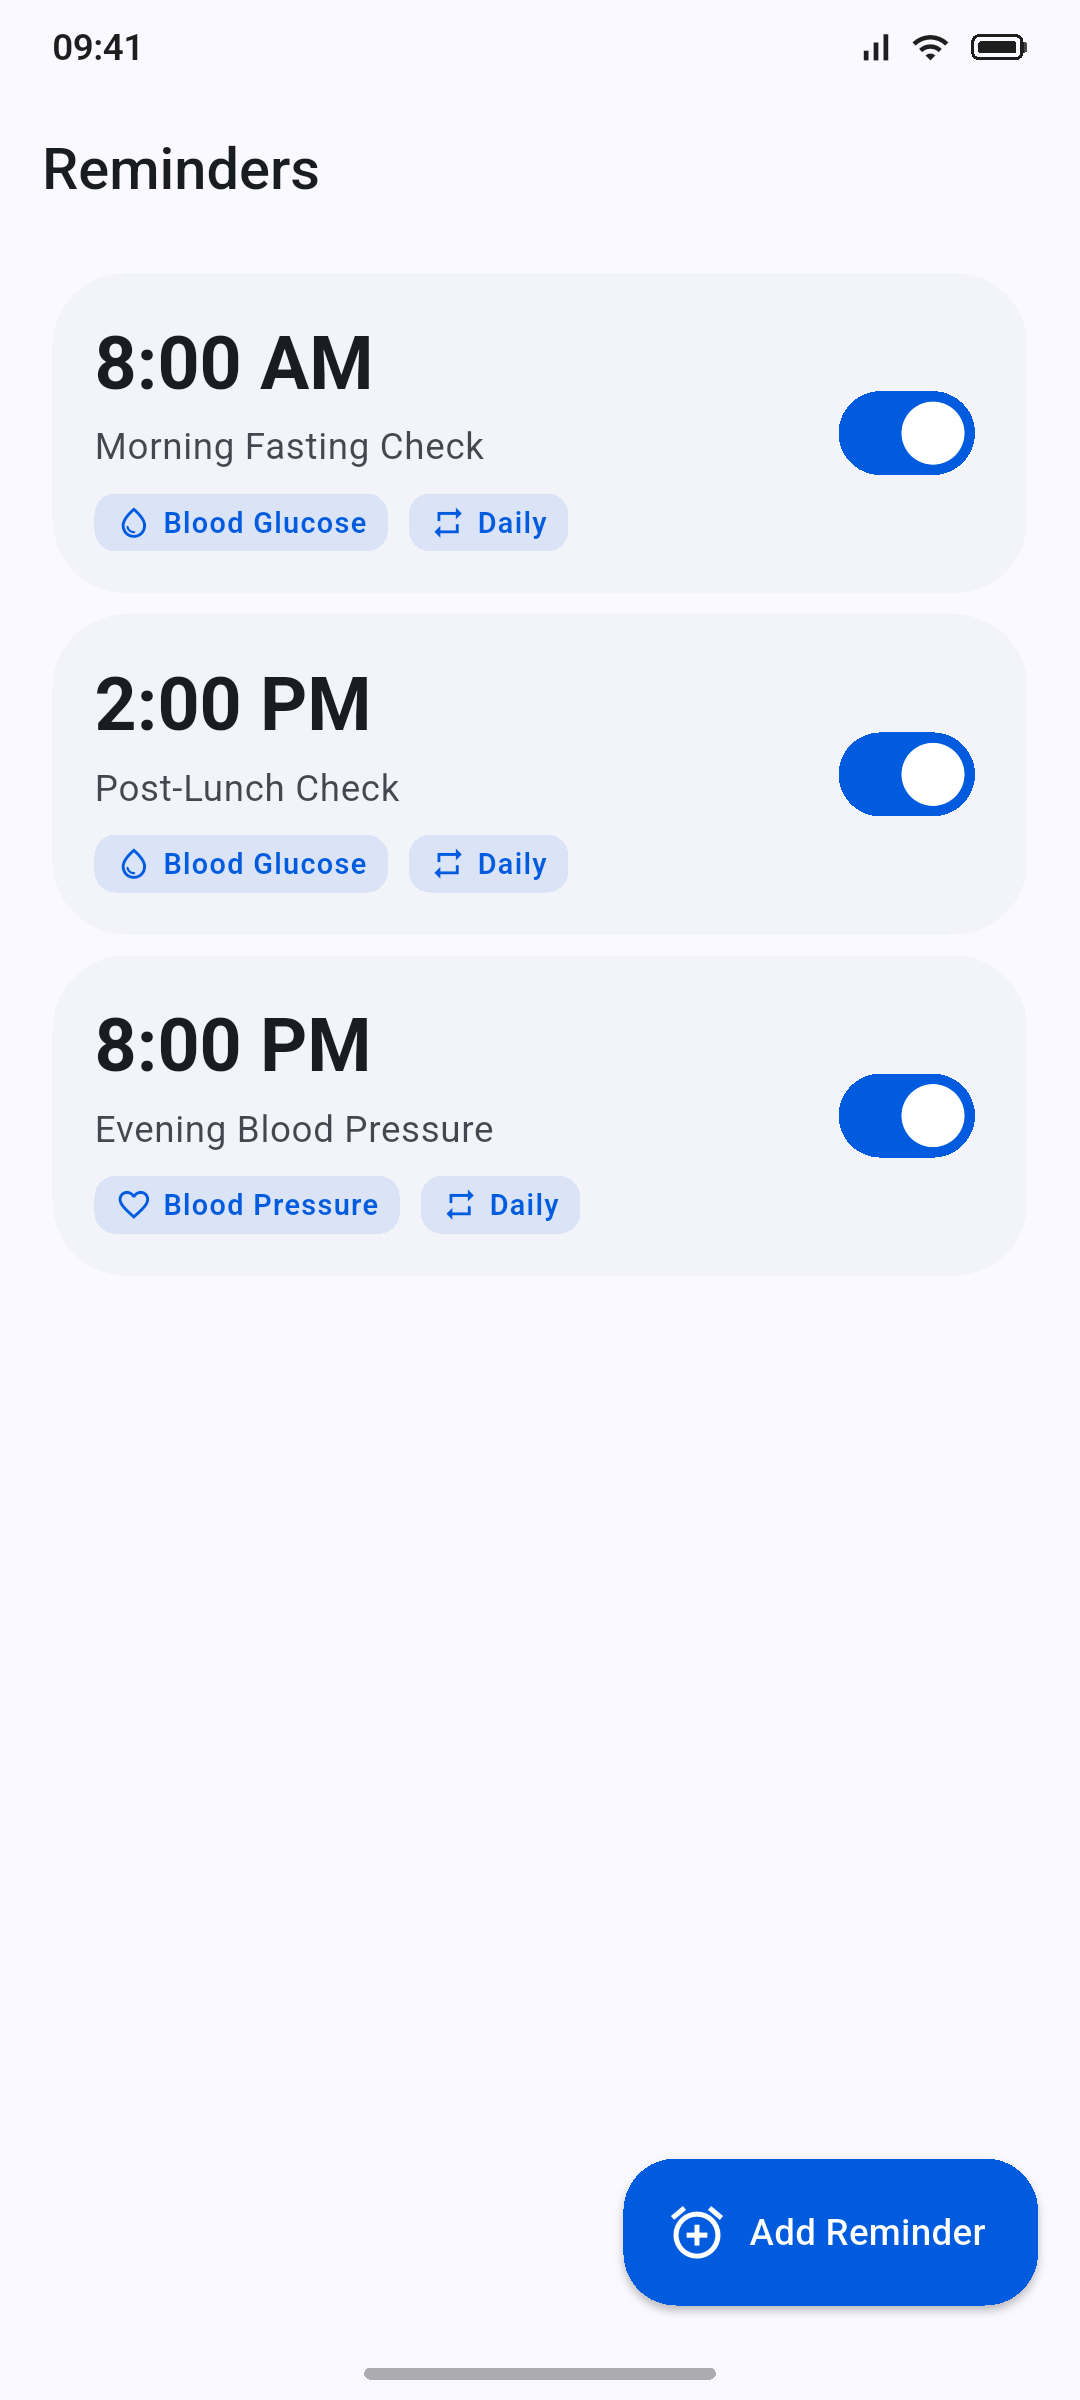
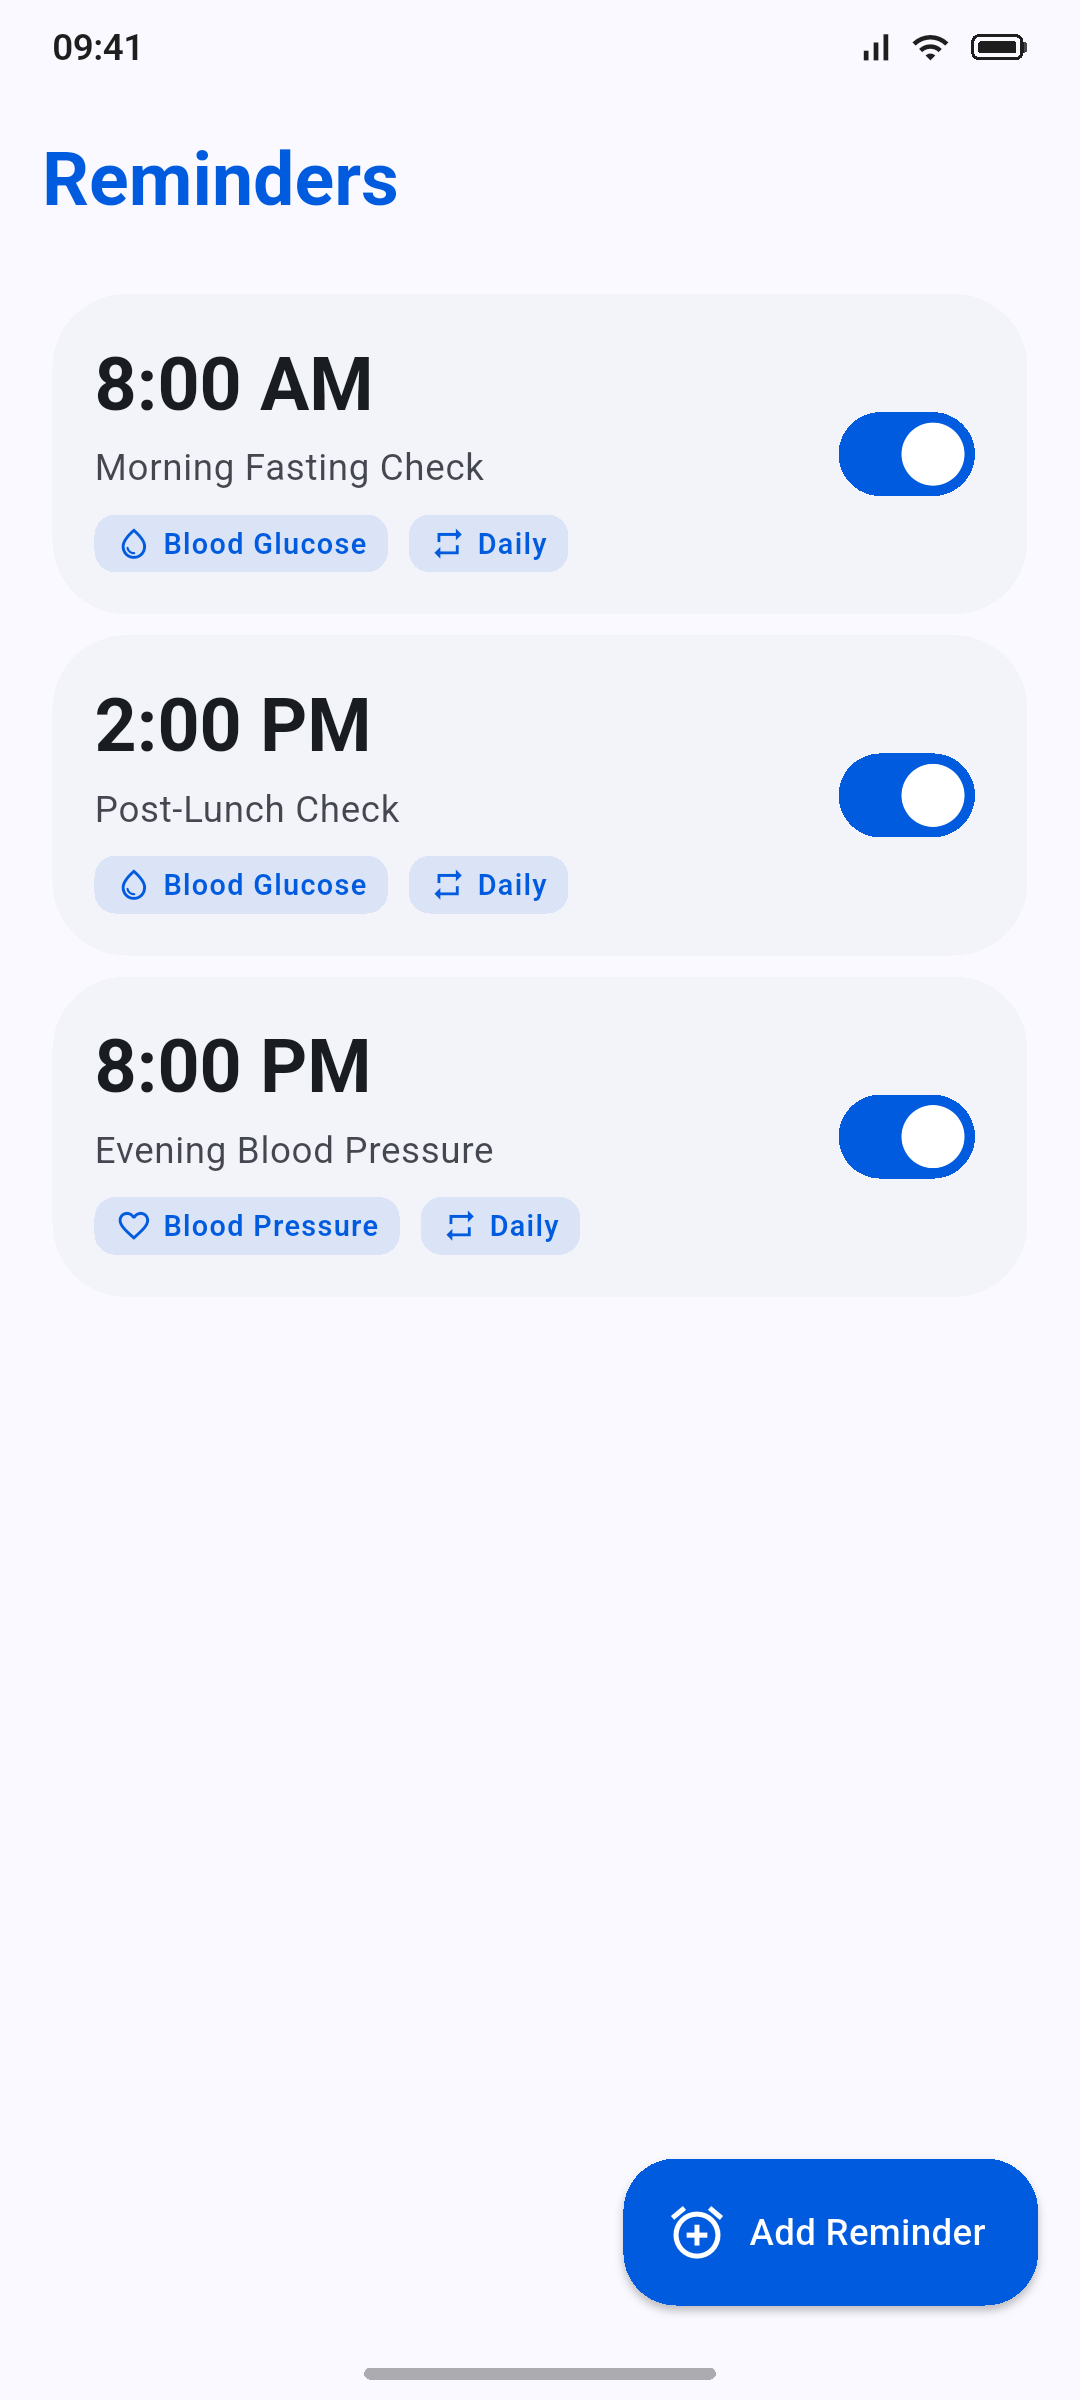
refactor(reminders): unify RemindersScreen top app bar with AppTopBar and regenerate screenshot

diff --git a/lib/features/reminders/presentation/screens/reminders_screen.dart b/lib/features/reminders/presentation/screens/reminders_screen.dart
@@ -8,6 +8,7 @@ import '../../../../core/presentation/utils/picker_helpers.dart';
 import '../../../../core/presentation/widgets/app_empty_view.dart';
 import '../../../../core/presentation/widgets/app_error_view.dart';
 import '../../../../core/presentation/widgets/app_loading_indicator.dart';
+import '../../../../core/presentation/widgets/app_top_bar.dart';
 import '../../../../core/presentation/widgets/clamped_layout.dart';
 import '../../../../l10n/app_localizations.dart';
 import '../../domain/entities/reminder.dart';
@@ -26,7 +27,7 @@ class RemindersScreen extends ConsumerWidget {
     final remindersAsync = ref.watch(reminderListProvider);
 
     return Scaffold(
-      appBar: AppBar(title: Text(l10n.reminders)),
+      appBar: AppTopBar(title: l10n.reminders),
       floatingActionButton: FloatingActionButton.extended(
         onPressed: () => _showAddEditReminderDialog(context, ref),
         icon: const Icon(Icons.add_alarm_outlined),
